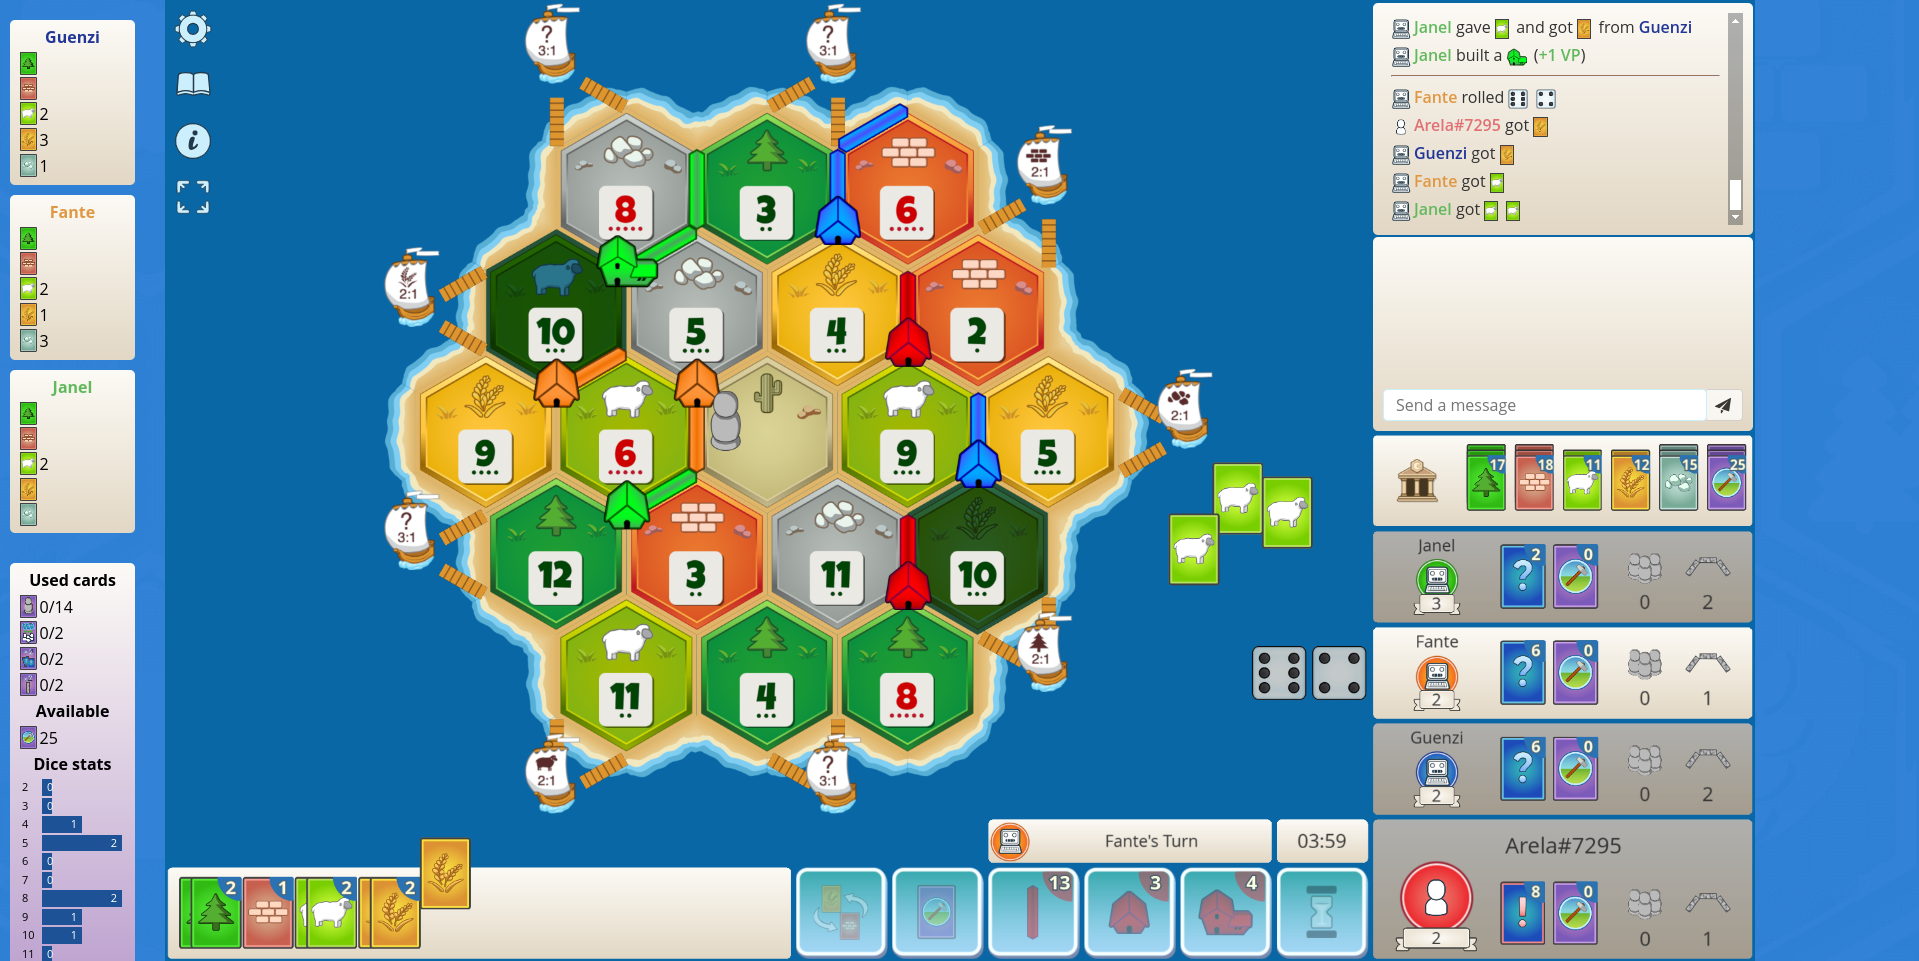
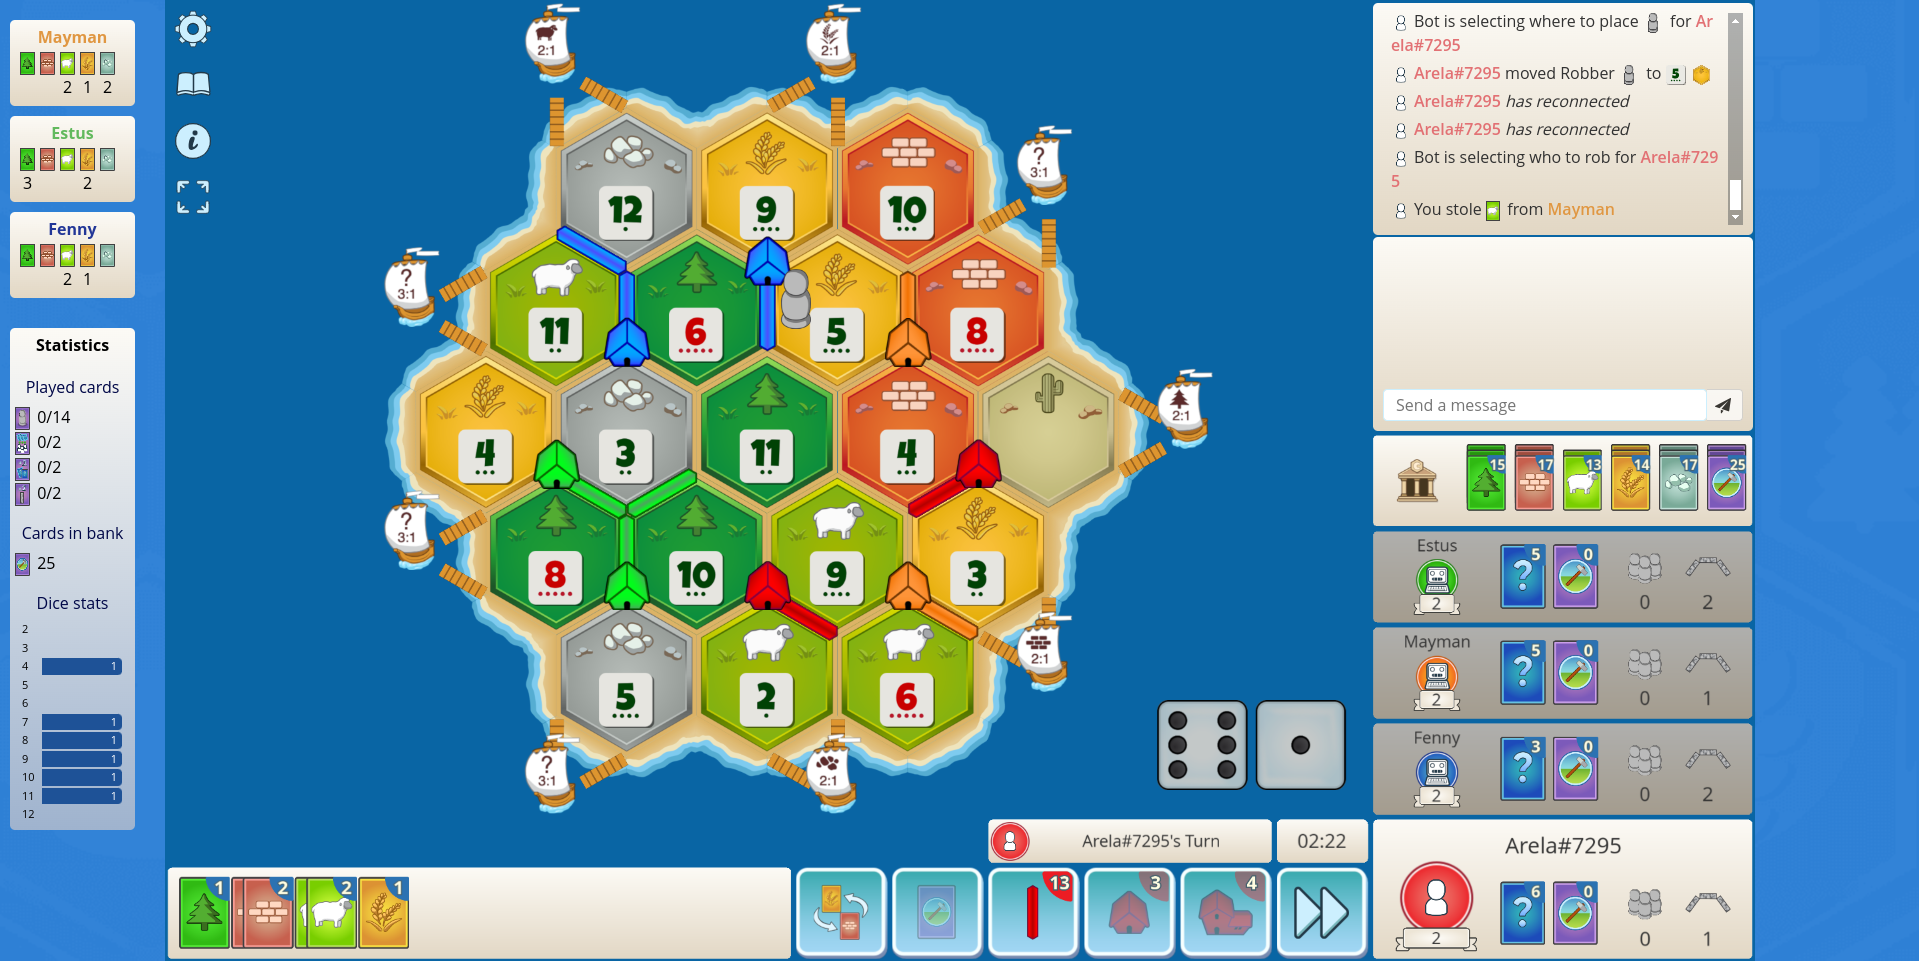
better ui

diff --git a/src/main.js b/src/main.js
@@ -420,7 +420,13 @@ function updateChart() {
     // Update dice stats
     for (i = 2; i < 13; i++) {
         let e = document.getElementById("dice_stat_bar_" + i)
-        e.innerText = DICE_STATS[i];
+        if (DICE_STATS[i] == 0){
+            e.style.display = "none";
+        }
+        else{
+            e.style.display = "block";
+        }
+        e.innerText =  (DICE_STATS[i] == 0) ? "" : `    ${DICE_STATS[i]}` ;
         e.style.width = DICE_STATS[i] * 80 / DICE_STATS["max"] + "px"
     }
 }
@@ -432,7 +438,8 @@ function addInitialHtml(){
             <div class="data-wrapper stats" id="stats-data-wrapper">
                 <div class="data-div stats-div">
 
-                    <div class="user-div-hr"> Used cards</div>
+                    <div class="user-div-hr"> Statistics</div>
+                    <div class="data-div-hr"> Played cards</div>
                     <div class="resource-div">
                         <img class="r_div_img" src="/dist/images/card_knight.svg" alt="">
                         <span id="card_count_knight" class="r_div_span">0/14</span>
@@ -450,66 +457,66 @@ function addInitialHtml(){
                         <span id="card_count_roadbuilding" class="r_div_span">0/2</span>
                     </div>
                     
-                    <div class="user-div-hr"> Available</div>
+                    <div class="data-div-hr"> Cards in bank</div>
                     <div class="resource-div">
                         <img class="r_div_img" src="/dist/images/card_devcardback.svg" alt="">
                         <span id="card_count_all" class="r_div_span">25</span>
                     </div>
         
-                    <div class="user-div-hr"> Dice stats</div>
-                    <div class="resource-div">
+                    <div class="data-div-hr"> Dice stats</div>
+                    <div class="d_div">
                         <span class="d_div_span">2</span>
-                        <div class="bar" id="dice_stat_bar_2">0</div>
+                        <div class="d_bar" id="dice_stat_bar_2"></div>
                     </div>
                 
-                    <div class="resource-div">
+                    <div class="d_div">
                         <span class="d_div_span">3</span>
-                        <div class="bar" id="dice_stat_bar_3">0</div>
+                        <div class="d_bar" id="dice_stat_bar_3"></div>
                     </div>
                 
-                    <div class="resource-div">
+                    <div class="d_div">
                         <span class="d_div_span">4</span>
-                        <div class="bar" id="dice_stat_bar_4">0</div>
+                        <div class="d_bar" id="dice_stat_bar_4"></div>
                     </div>
                 
-                    <div class="resource-div">
+                    <div class="d_div">
                         <span class="d_div_span">5</span>
-                        <div class="bar" id="dice_stat_bar_5">0</div>
+                        <div class="d_bar" id="dice_stat_bar_5"></div>
                     </div>
                 
-                    <div class="resource-div">
+                    <div class="d_div">
                         <span class="d_div_span">6</span>
-                        <div class="bar" id="dice_stat_bar_6">0</div>
+                        <div class="d_bar" id="dice_stat_bar_6"></div>
                     </div>
                 
-                    <div class="resource-div">
+                    <div class="d_div">
                         <span class="d_div_span">7</span>
-                        <div class="bar" id="dice_stat_bar_7">0</div>
+                        <div class="d_bar" id="dice_stat_bar_7"></div>
                     </div>
                 
-                    <div class="resource-div">
+                    <div class="d_div">
                         <span class="d_div_span">8</span>
-                        <div class="bar" id="dice_stat_bar_8">0</div>
+                        <div class="d_bar" id="dice_stat_bar_8"></div>
                     </div>
                 
-                    <div class="resource-div">
+                    <div class="d_div">
                         <span class="d_div_span">9</span>
-                        <div class="bar" id="dice_stat_bar_9">0</div>
+                        <div class="d_bar" id="dice_stat_bar_9"></div>
                     </div>
                 
-                    <div class="resource-div">
+                    <div class="d_div">
                         <span class="d_div_span">10</span>
-                        <div class="bar" id="dice_stat_bar_10">0</div>
+                        <div class="d_bar" id="dice_stat_bar_10"></div>
                     </div>
                 
-                    <div class="resource-div">
+                    <div class="d_div">
                         <span class="d_div_span">11</span>
-                        <div class="bar" id="dice_stat_bar_11">0</div>
+                        <div class="d_bar" id="dice_stat_bar_11"></div>
                     </div>
                 
-                    <div class="resource-div">
+                    <div class="d_div">
                         <span class="d_div_span">12</span>
-                        <div class="bar" id="dice_stat_bar_12">0</div>
+                        <div class="d_bar" id="dice_stat_bar_12"></div>
                     </div>
                 </div>
             </div>
@@ -520,26 +527,33 @@ function addUserBlock(user) {
     document.getElementById("user-data-wrapper").innerHTML += `
         <div class="data-div user-div" id="userdiv_${user}">
             <div class="user-div-hr" style="color:${USER_COLORMAP[user]};">${user}</div>
-            <div class="resource-div">
-                <img class="r_div_img" src="/dist/images/card_lumber.svg">
-                <span class="r_div_span" id="${user}_lumber"> </span>
+           
+            <div class="r_div_wp">
+          
+                <div class="r_div">
+                    <img class="r_div_img" src="/dist/images/card_lumber.svg">
+                    <span class="r_div_span" id="${user}_lumber"> </span>
+                </div>
+                <div class="r_div">
+                    <img class="r_div_img" src="/dist/images/card_brick.svg">
+                    <span class="r_div_span" id="${user}_brick"></span>
+                </div>
+                <div class="r_div">
+                    <img class="r_div_img" src="/dist/images/card_wool.svg">
+                    <span class="r_div_span" id="${user}_wool"></span>
+                </div>
+                <div class="r_div">
+                    <img class="r_div_img" src="/dist/images/card_grain.svg">
+                    <span class="r_div_span" id="${user}_grain"></span>
+                </div>
+                <div class="r_div">
+                    <img class="r_div_img" src="/dist/images/card_ore.svg">
+                    <span class="r_div_span" id="${user}_ore"></span>
+                </div>
+                
             </div>
-            <div class="resource-div">
-                <img class="r_div_img" src="/dist/images/card_brick.svg">
-                <span class="r_div_span" id="${user}_brick"></span>
-            </div>
-            <div class="resource-div">
-                <img class="r_div_img" src="/dist/images/card_wool.svg">
-                <span class="r_div_span" id="${user}_wool"></span>
-            </div>
-            <div class="resource-div">
-                <img class="r_div_img" src="/dist/images/card_grain.svg">
-                <span class="r_div_span" id="${user}_grain"></span>
-            </div>
-            <div class="resource-div">
-                <img class="r_div_img" src="/dist/images/card_ore.svg">
-                <span class="r_div_span" id="${user}_ore"></span>
-            </div>
+                
+
         </div>`
 }
 

diff --git a/src/style.css b/src/style.css
@@ -1,20 +1,23 @@
-.main-extention-container{
+.main-extention-container {
    height: 100%;
    display: flex;
    flex-direction: column;
-   position:absolute;
+   position: absolute;
    overflow-y: scroll;
-   -ms-overflow-style: none;  /* IE and Edge */
-   scrollbar-width: none;  /* Firefox */
+   -ms-overflow-style: none;
+   /* IE and Edge */
+   scrollbar-width: none;
+   /* Firefox */
 
 }
 
 .main-extention-container::-webkit-scrollbar {
-   display: none; /* Hide scrollbar for WebKit browsers */
+   display: none;
+   /* Hide scrollbar for WebKit browsers */
 }
 
 
-.data-wrapper{
+.data-wrapper {
    padding-top: 10px;
    margin-left: 10px;
    margin-right: 10px;
@@ -23,7 +26,7 @@
 
 .data-div {
    padding: 5px;
-   background-image: linear-gradient(to bottom,#fcfaf5,#e2d7c4);
+   background-image: linear-gradient(to bottom, #fcfaf5, #e2d7c4);
    color: black;
    width: fit-content !important;
    min-width: 125px;
@@ -33,17 +36,7 @@
    border-radius: 5px;
 }
 
-.data-div.stats-div{
-   background-image: linear-gradient(to bottom,#fcfaf5,#bb9fce);
-}
-
-.user-div-hr-self{
-   font-weight: 700;
-   margin-bottom: 3px;
-   text-align: center;
-}
-
-.user-div-hr{
+.user-div-hr {
    font-weight: 700;
    margin-bottom: 3px;
    text-align: center;
@@ -51,32 +44,64 @@
 }
 
 
-.bar{
+.r_div_wp {
+   display: flex;
+   flex-direction: row;
+}
+
+.r_div {
+   display: flex;
+   flex-direction: column;
+   color: black;
+   margin-left: 5px;
+   margin-bottom: 2px;
+}
+
+.r_div_img {
+   height: 23px;
+   width: 15px;
+}
+
+.r_div_span {
+   margin-left: 3px;
+}
+
+.data-div.stats-div {
+   background-image: linear-gradient(to bottom, #fcfaf5, #9fb3ce);
+}
+
+.d_div {
+   display: flex;
+   flex-direction: row;
+   color: black;
+   margin-left: 5px;
+   margin-bottom: 2px;
+}
+
+
+.data-div-hr {
+   color: rgb(0, 7, 71);
+   font-weight: 500;
+   margin-bottom: 6px;
+   margin-top: 15px;
+   text-align: center;
+
+}
+
+
+.d_div_span {
+   margin-left: 2px;
+   font-size: 11px;
+   width: 20px;
+}
+
+.d_bar {
    background-color: rgb(30, 82, 151);
    color: white;
    text-align: right;
    padding-right: 5px;
    padding-left: 5px;
    font-size: 11px;
-}
-
-.resource-div{
-   display: flex;
-   color: black;
-   margin-left: 5px;
-   margin-bottom: 2px;
-}
-
-.r_div_span{
-   margin-left: 3px;
-}
-
-.d_div_span{
-   margin-left: 2px;
-   font-size: 11px;
-   width: 20px;
-}
-
-.r_div_img{
-   height: 23px;
+   border-top-right-radius: 4px;
+   border-bottom-right-radius: 4px;
 }
